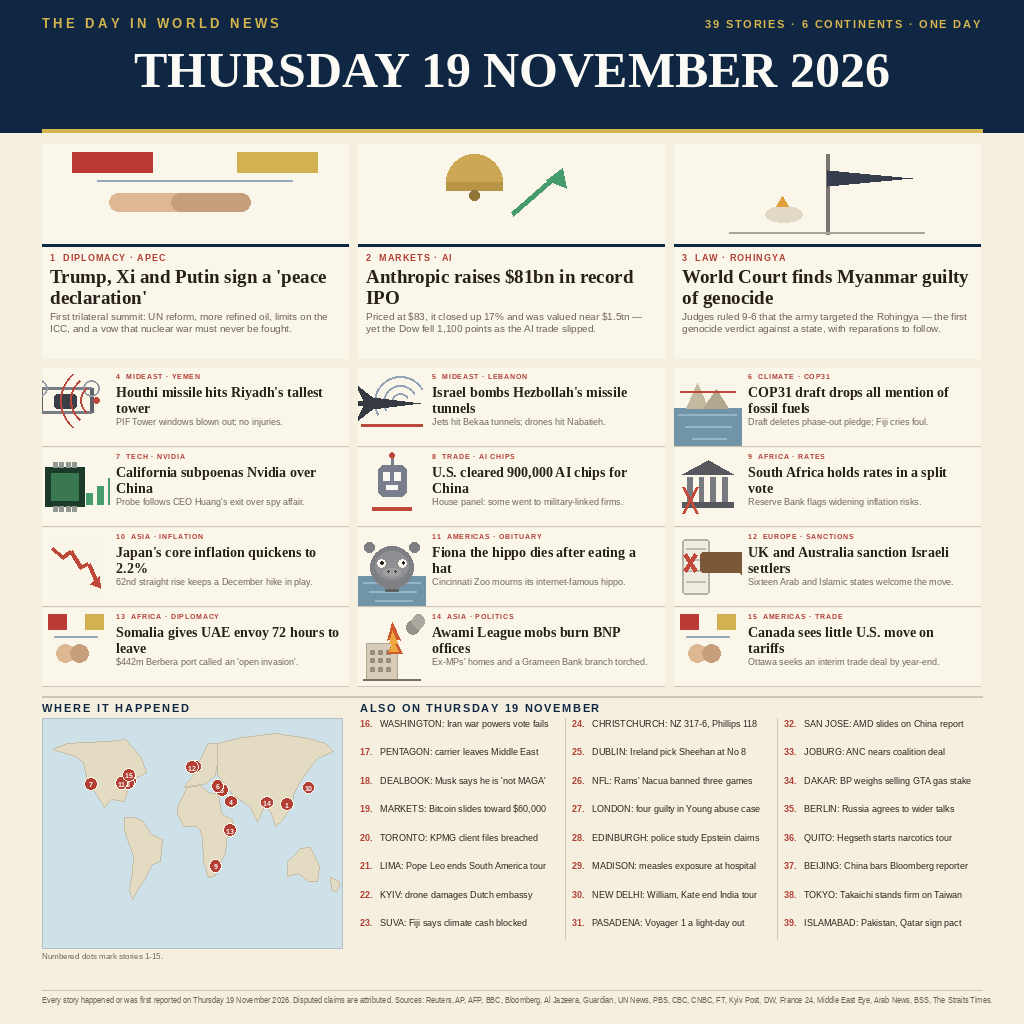
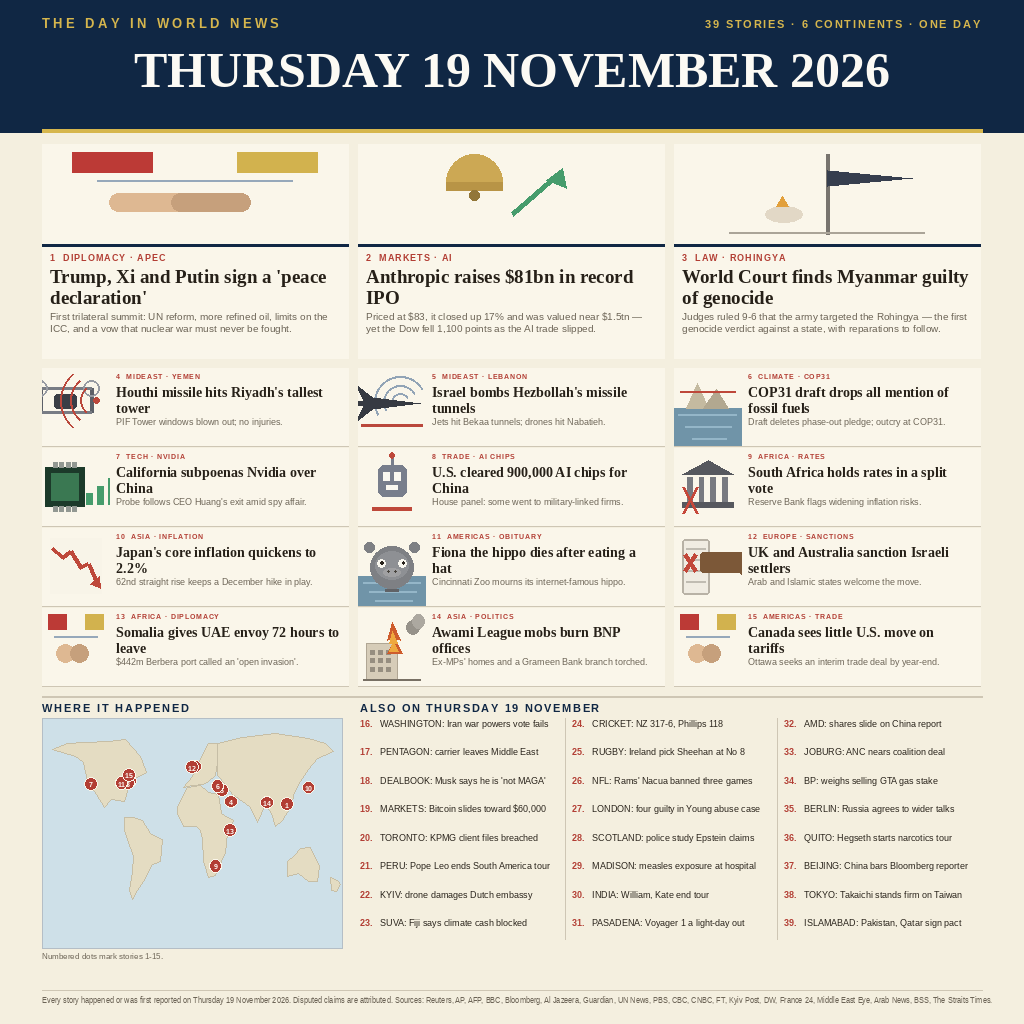
Refuse to overwrite the picture itself; print the closing verdict

diff --git a/main.py b/main.py
@@ -127,6 +127,9 @@ def copy_atomically(source, destination):
 def publish(argv):
     destination = argv[1] if len(argv) > 1 else FALLBACK
     source = os.path.join(os.path.dirname(os.path.abspath(__file__)), SOURCE)
+    if os.path.abspath(source) == os.path.abspath(destination):
+        print("failed: the destination is the picture itself", file=sys.stderr)
+        return 1
     try:
         with open(source, "rb") as handle:
             blob = handle.read()
@@ -141,6 +144,7 @@ def publish(argv):
         print("weight   %d bytes, cap %d" % (len(blob), MAX_BYTES))
         print("written  %s" % destination)
         print("sha256   %s" % digest_of(destination))
+        print("verdict  one whole PNG, copied byte for byte, inside every limit")
         return 0
     except (OSError, Refused) as problem:
         print("failed: %s" % problem, file=sys.stderr)
